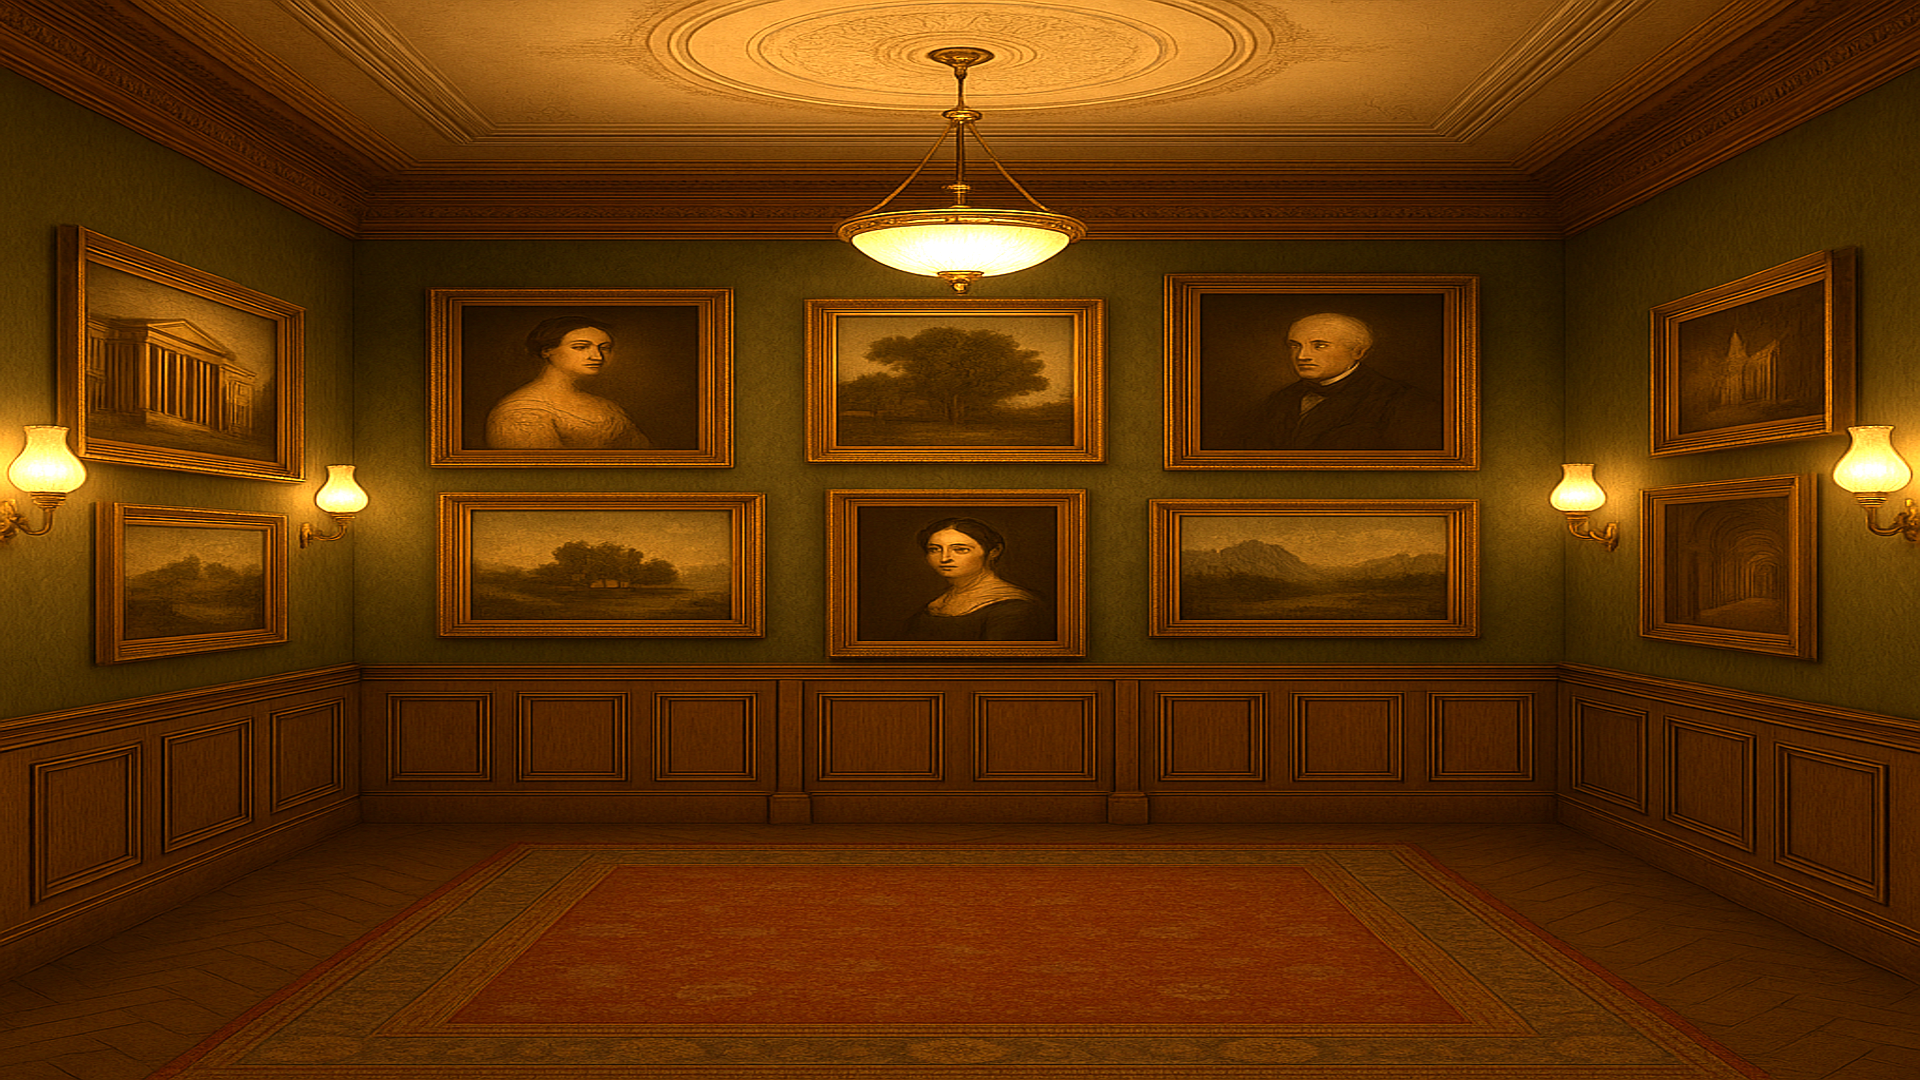
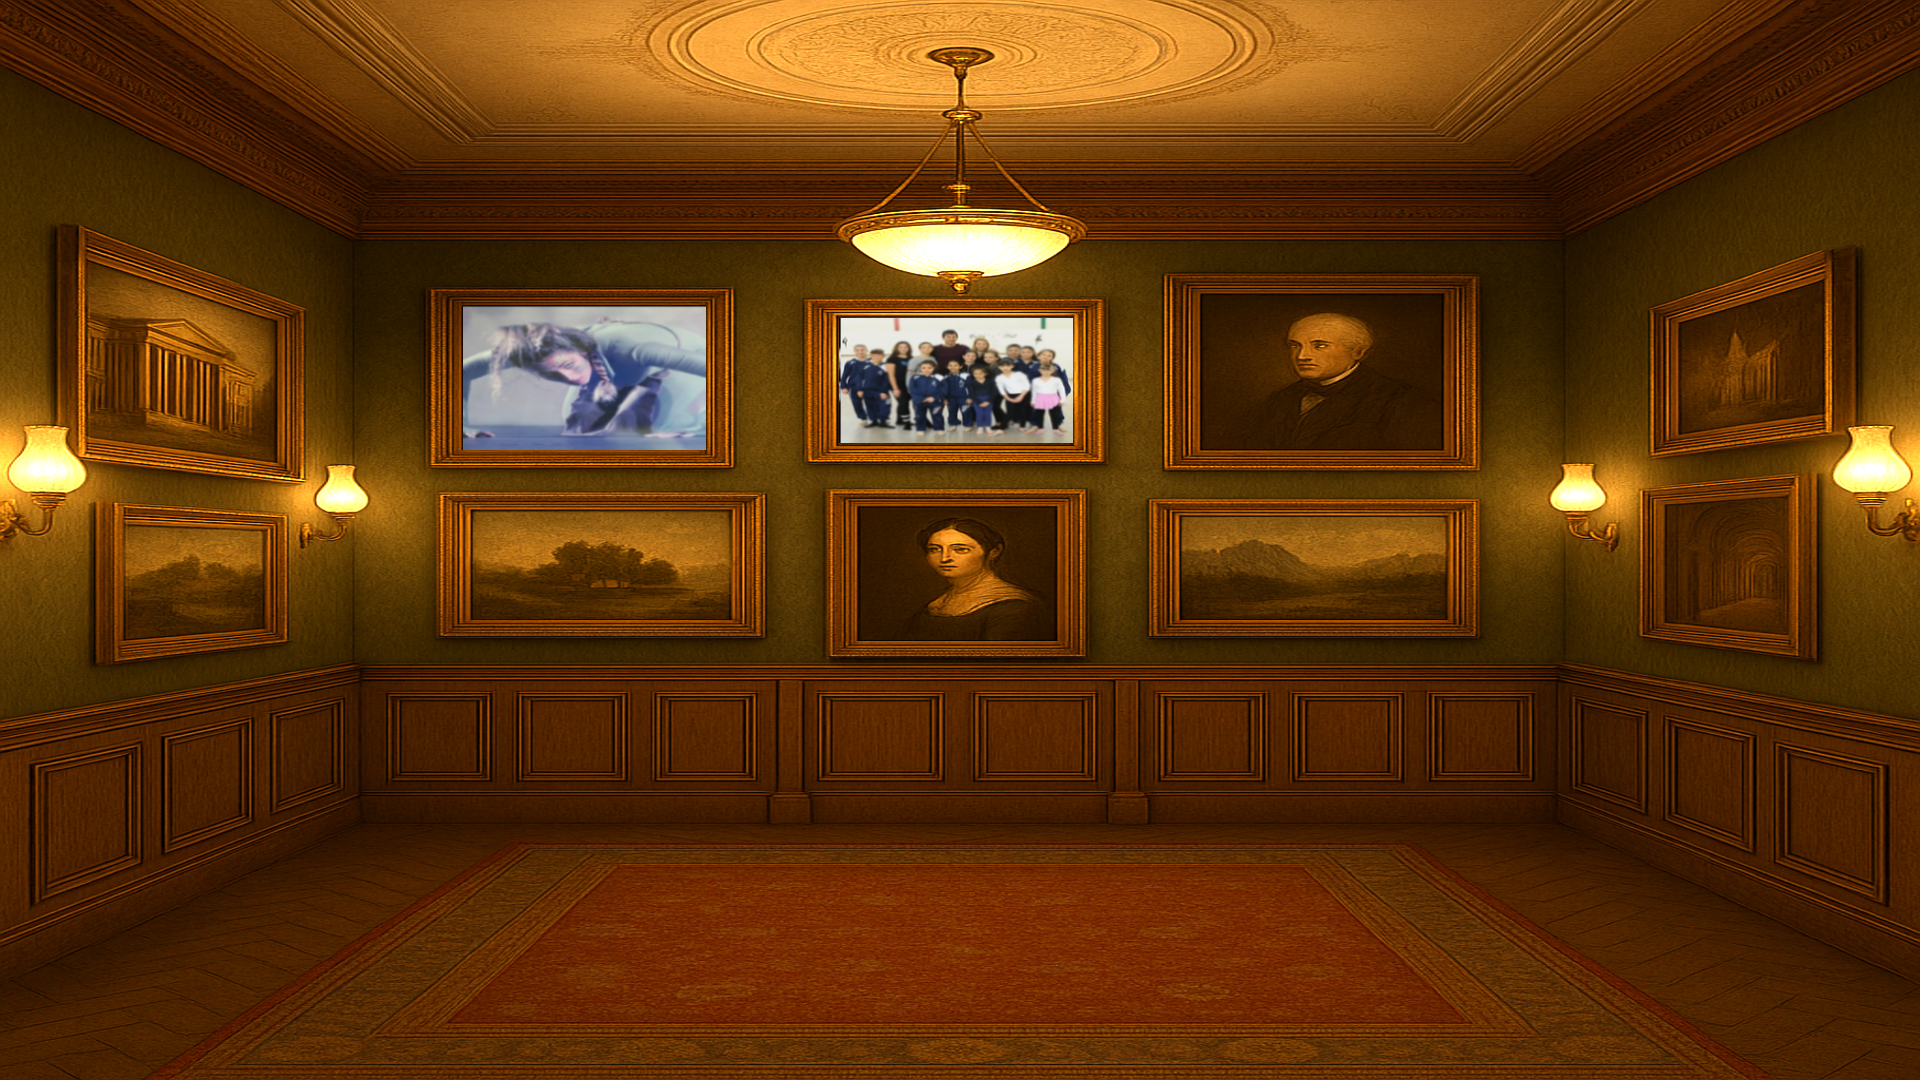
Add files via upload

Changed region(s): [[0.2188, 0.275, 0.375, 0.4278], [0.4375, 0.275, 0.5625, 0.4278]]

diff --git a/style.css b/style.css
@@ -44,7 +44,7 @@ html, body {
 
 .zone:hover {
   box-shadow: 0 0 10px 5px rgba(255, 255, 255, 0.3);
-  filter: drop-shadow(0 0 40px rgba(255, 255, 255, 0.418)) drop-shadow(0 0 20px rgba(255, 255, 255, 0.418));
+  filter: drop-shadow(0 0 40px rgb(255, 255, 255)) drop-shadow(0 0 80px rgb(255, 255, 255));
 }
     
 .zone {
@@ -52,7 +52,7 @@ html, body {
   z-index: 2;
   cursor: pointer;
   transition: all 0.3s ease;
-  /*border: 2px dashed rgba(255, 0, 0, 0.5);*/
+  border: 2px dashed rgba(255, 0, 0, 0.5);
 }
 
 .zone::after {
@@ -74,6 +74,8 @@ transition: opacity 0.3s ease;
 .zone:hover::after {
   opacity: 1;
 }
+
+/*atrio*/
 
 #scale {
   top: 56%;
@@ -133,6 +135,76 @@ transition: opacity 0.3s ease;
   width: 9%;
   height: 18%;
 }
+/*Libreria*/
+
+#libreriasx {
+  top: 24.8%;
+  left: 5%;
+  width: 7%;
+  height: 27%;
+  clip-path: polygon(0% 0%, 100% 5%, 100% 92%, 0% 100%);
+}
+
+#libreriactrsx {
+  top: 27%;
+  left: 21%;
+  width: 15%;
+  height: 23%;
+}
+
+#libreriactr {
+  top: 28%;
+  left: 44%;
+  width: 12%;
+  height: 22%;
+}
+
+#libreriactrdx {
+  top: 27%;
+  right: 21%;
+  width: 15%;
+  height: 23%;
+}
+
+#libreriadx {
+  top: 24.8%;
+  right: 5%;
+  width: 7%;
+  height: 27%;
+  clip-path: polygon(0% 5%, 100% 0%, 100% 100%, 0% 92%);
+}
+
+#primopiano {
+  top: 63.5%;
+  right: 23%;
+  width: 13.5%;
+  height: 8%;
+}
+
+#primopiano2 {
+  top: 55%;
+  left: 26%;
+  width: 9%;
+  height: 5%;
+}
+
+/*Galleria*/
+
+#cornice1 {
+  top: 28.5%;
+  left: 24%;
+  width: 13%;
+  height: 13%;
+}
+
+#cornice2 {
+  top: 29%;
+  left: 43%;
+  width: 13%;
+  height: 12%;
+}
+
+/**/
 
 #tooltip {
   position: fixed;
@@ -212,4 +284,139 @@ button:hover {
   border-radius: 10px;
   cursor: pointer;
   font-weight: bold;
+}
+
+.popup {
+  position: fixed;
+  top: 50%;
+  left: 50%;
+  transform: translate(-50%, -50%);
+  background: rgba(15, 15, 15, 0.95);
+  color: white;
+  padding: 2rem;
+  border-radius: 10px;
+  box-shadow: 0 0 20px rgba(255, 255, 255, 0.2);
+  z-index: 10000;
+  max-width: 500px;
+  width: 90%;
+  display: none;
+}
+
+.popup-content {
+  position: relative;
+}
+
+.popup .close-btn {
+  position: absolute;
+  top: -10px;
+  right: -10px;
+  font-size: 2rem;
+  background: #fff;
+  color: black;
+  border-radius: 50%;
+  padding: 0 10px;
+  cursor: pointer;
+}
+
+.popup.show {
+  display: block;
+}
+
+.popup.hidden {
+  display: none;
+}
+
+#img-popup {
+  position: fixed;
+  top: 50%;
+  left: 50%;
+  transform: translate(-50%, -50%);
+  background: rgba(15, 15, 15, 0.95);
+  color: white;
+  padding: 1rem;
+  border-radius: 10px;
+  box-shadow: 0 0 20px rgba(255, 255, 255, 0.2);
+  z-index: 10000;
+  width: 90%;
+  max-width: 800px;
+  display: none;
+}
+
+#img-popup.show {
+  display: block;
+}
+
+#img-gallery {
+  display: flex;
+  flex-direction: column;
+  gap: 20px;
+  align-items: center;
+}
+
+.img-item {
+  text-align: center;
+  color: white;
+}
+
+.img-item img {
+  max-width: 100%;
+  max-height: 300px;
+  border-radius: 6px;
+  border: 2px solid white;
+}
+
+.img-item p {
+  margin-top: 10px;
+  font-size: 0.9rem;
+  color: #ccc;
+}
+
+#img-gallery img {
+  max-width: 100%;
+  max-height: 300px;
+  border-radius: 6px;
+  border: 2px solid white;
+}
+
+#img-slider {
+  display: flex;
+  align-items: center;
+  justify-content: center;
+  gap: 10px;
+  margin-top: 20px;
+}
+
+#img-slide {
+  text-align: center;
+  max-width: 600px;
+}
+
+#img-slide img {
+  max-width: 100%;
+  max-height: 400px;
+  border-radius: 8px;
+  border: 2px solid white;
+}
+
+#img-slide p {
+  color: #ccc;
+  margin-top: 10px;
+  font-size: 0.9rem;
+  line-height: 1.4;
+  max-width: 100%;
+  white-space: normal;    
+  word-wrap: break-word;   
+  text-align: left;       
+  padding: 0 1rem;
+  max-height: 120px;
+  overflow-y: auto;
+}
+
+
+#prev-img, #next-img {
+  background: transparent;
+  color: white;
+  font-size: 2rem;
+  border: none;
+  cursor: pointer;
 }

diff --git a/libreria.html b/libreria.html
@@ -11,6 +11,37 @@
     <img src="img/biblioteca.png" alt="Libreria" class="background">
     <div class="info-box">Libreria – Studio volumi</div>
     <div class="back" onclick="goTo('atrio.html')">⬅ Torna all’atrio</div>
+    <div class="zone" id="libreriasx" data-tooltip="Libreria Sinistra"
+      onclick="openPopup('Libreria Sinistra', 'Questa sezione contiene ....')">
+    </div>
+    <div class="zone" id="libreriactrsx" data-tooltip="Libreria Centrale SX"
+      onclick="openPopup('Libreria Centrale Sinistra', 'Questa sezione contiene ....')">
+    </div>
+    <div class="zone" id="libreriactr" data-tooltip="Libreria Centrale "
+      onclick="openPopup('Libreria Centrale', 'Questa sezione contiene ....')">
+    </div>
+    <div class="zone" id="libreriactrdx" data-tooltip="Libreria Centrale DX "
+      onclick="openPopup('Libreria Centrale Destra', 'Questa sezione contiene ....')">
+    </div>
+    <div class="zone" id="libreriadx" data-tooltip="Libreria Centrale DX "
+      onclick="openPopup('Libreria Destra', 'Questa sezione contiene ....')">
+    </div>
+    <div class="zone" id="primopiano" data-tooltip="In evidenza "
+      onclick="openPopup('In evidenza', 'Posto per notizia in evidenza 1 ....')">
+    </div>
+    <div class="zone" id="primopiano2" data-tooltip="In evidenza "
+      onclick="openPopup('In evidenza', 'Posto per notizia in evidenza 2 ....')">
+    </div>
+    <div id="tooltip"></div>
+    <div id="popup" class="popup hidden">
+      <div class="popup-content">
+        <span class="close-btn" onclick="closePopup()">&times;</span>
+        <h2 id="popup-title"></h2>
+        <p id="popup-description"></p>
+      </div>
+    </div>
+
+
   </div>
   <script src="script.js"></script>
 </body>

diff --git a/galleria.html b/galleria.html
@@ -11,6 +11,30 @@
     <img src="img/galleria.png" alt="Libreria" class="background">
     <div class="info-box">Galleria Immagini</div>
     <div class="back" onclick="goTo('atrio.html')">⬅ Torna all’atrio</div>
+    <div class="zone" id="cornice1" data-tooltip="Ritmo & Danza"
+      onclick='openImg(
+        {src: "gallery/danza/ritmo-e-danza.png", description: "BLA BLA BLA, BLA BLA, BLA BLA"}
+      )'>
+    </div>
+    <div class="zone" id="cornice2" data-tooltip="Cornice 2"
+      onclick='openImg(
+        {src: "gallery/danza/ritmo-e-danza.png", description: "BLA BLA BLA, BLA BLA, BLA BLA BLA BLA BLA, BLA BLA, BLA BLA BLA BLA BLA, BLA BLA, BLA BLA BLA BLA BLA, BLA BLA, BLA BLA BLA BLA BLA, BLA BLA, BLA BLA"},
+        {src: "gallery/danza/danza-e-passione.png", description: "BLA BLA BLA, BLA BLA, BLA BLA"},
+        {src: "gallery/danza/yuppi.png", description: "BLA BLA BLA, BLA BLA, BLA BLA"},
+        {src: "gallery/danza/stage-con-kledi.png", description: "BLA BLA BLA, BLA BLA, BLA BLA"},
+      )'>
+    </div>
+    <div id="tooltip"></div>
+    <div id="img-popup" class="popup hidden">
+      <div class="popup-content">
+        <span class="close-btn" onclick="closeImgPopup()">&times;</span>
+        <div id="img-slider">
+          <button id="prev-img" onclick="changeImg(-1)">←</button>
+          <div id="img-slide"></div>
+          <button id="next-img" onclick="changeImg(1)">→</button>
+        </div>
+      </div>
+    </div>
   </div>
   <script src="script.js"></script>
 </body>

diff --git a/script.js b/script.js
@@ -38,3 +38,55 @@ document.addEventListener("DOMContentLoaded", () => {
     });
   });
 });
+
+function openPopup(titolo, descrizione) {
+  const popup = document.getElementById("popup");
+  document.getElementById("popup-title").textContent = titolo;
+  document.getElementById("popup-description").textContent = descrizione;
+  popup.classList.remove("hidden");
+  popup.classList.add("show");
+}
+
+function closePopup() {
+  const popup = document.getElementById("popup");
+  popup.classList.remove("show");
+  popup.classList.add("hidden");
+}
+
+let imgList = [];
+let imgIndex = 0;
+
+function openImg(...items) {
+  imgList = items;
+  imgIndex = 0;
+  showImgSlide();
+  document.getElementById("img-popup").classList.add("show");
+}
+
+function closeImgPopup() {
+  document.getElementById("img-popup").classList.remove("show");
+}
+
+function changeImg(dir) {
+  imgIndex += dir;
+  if (imgIndex < 0) imgIndex = imgList.length - 1;
+  if (imgIndex >= imgList.length) imgIndex = 0;
+  showImgSlide();
+}
+
+function showImgSlide() {
+  const slide = document.getElementById("img-slide");
+  slide.innerHTML = "";
+
+  const item = imgList[imgIndex];
+
+  const img = document.createElement("img");
+  img.src = item.src;
+
+  const desc = document.createElement("p");
+  desc.textContent = item.description || "";
+
+  slide.appendChild(img);
+  slide.appendChild(desc);
+}
+
